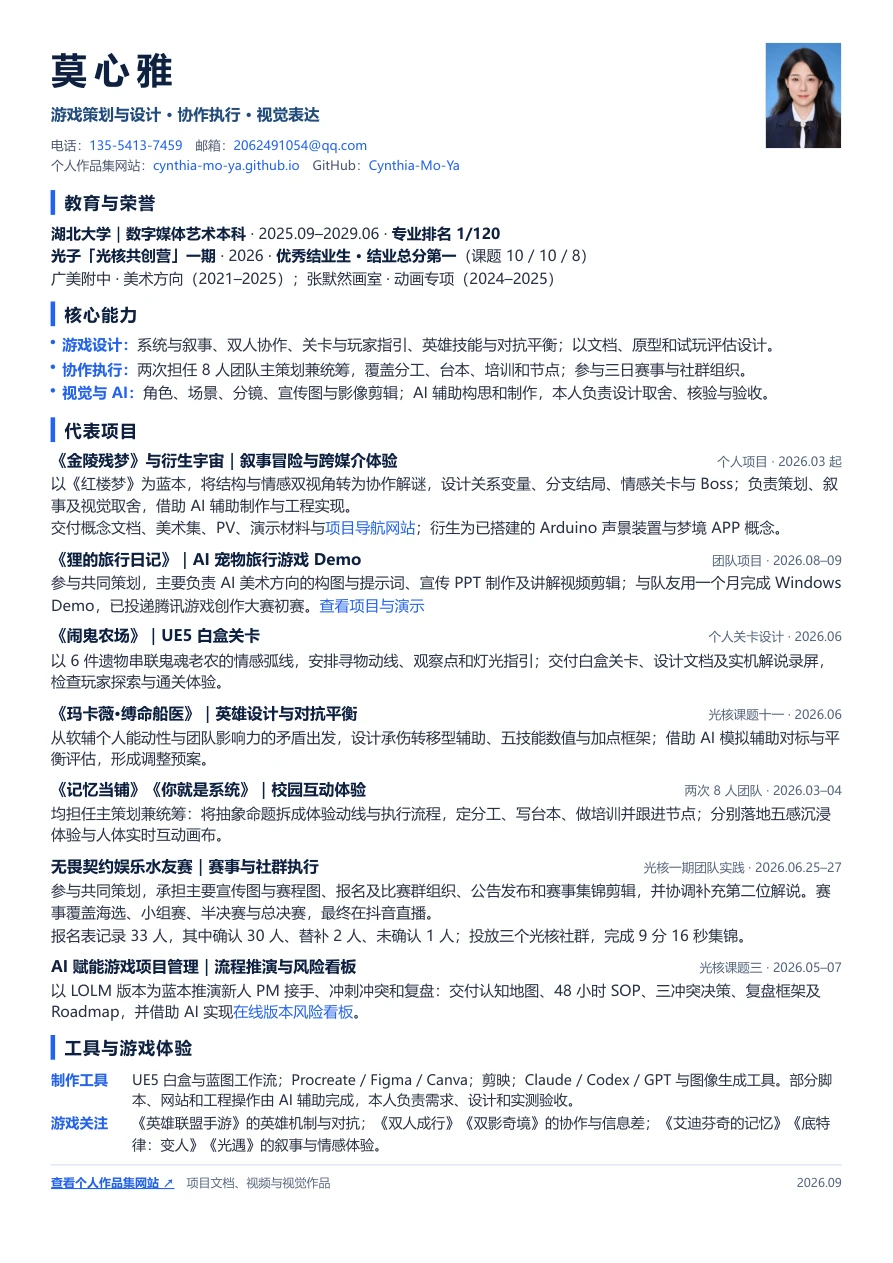
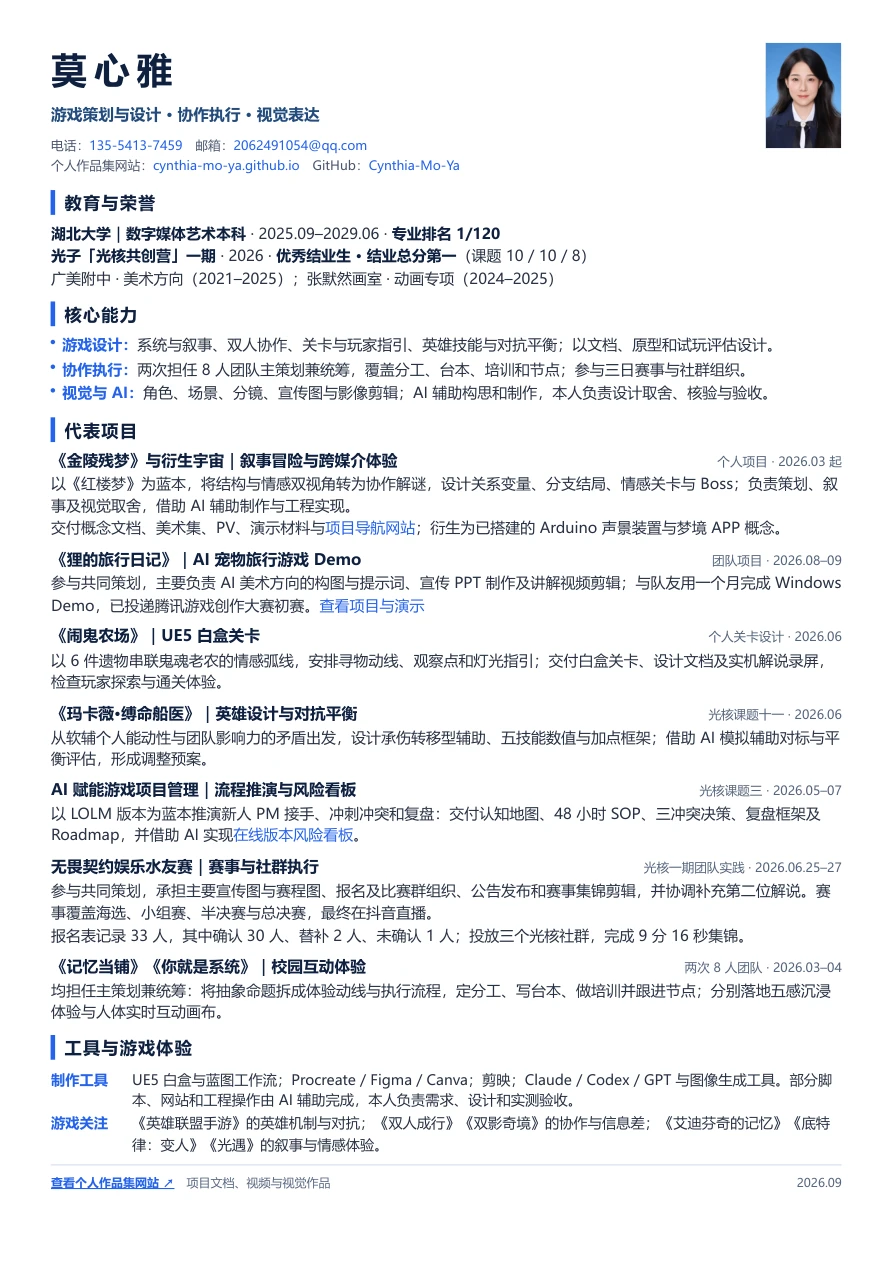
统一游戏项目优先顺序并同步综合简历

Changed region(s): [[0.0605, 0.7411, 0.9373, 0.8029], [0.0605, 0.6176, 0.9373, 0.6793]]

diff --git a/index.html b/index.html
@@ -160,8 +160,8 @@
           </div>
         </div>
         <div class="dossier-right">
-          <a class="dos-resume" href="assets/pdf/莫心雅_综合简历.pdf?v=9" target="_blank">
-            <img src="assets/img/resume-preview.webp?v=9" alt="莫心雅简历预览" loading="lazy">
+          <a class="dos-resume" href="assets/pdf/莫心雅_综合简历.pdf?v=10" target="_blank">
+            <img src="assets/img/resume-preview.webp?v=10" alt="莫心雅简历预览" loading="lazy">
             <span class="dos-resume-cta" data-i18n="file.read">阅读完整综合简历 ↗</span>
           </a>
           <div class="dos-build" tabindex="0">
@@ -338,33 +338,11 @@
       <span class="pc-frame"><img class="pc-cover" src="assets/img/covers/cover-lico.webp" alt="" loading="lazy"><span class="pc-num">PANEL 02</span></span>
       <span class="pc-face"><b data-i18n="cards.licot" class="pc-title">狸的旅行日记</b><small data-i18n="cards.licotag" class="pc-tags">团队游戏 Demo / AI 美术 · 共同策划 · 宣传</small></span>
     </button>
-    <button class="pcard pc-pawnshop" data-card="pawnshop">
-      <span class="pc-frame">
-        <span class="pc-ph" aria-hidden="true">🏷</span>
-        <img class="pc-cover" src="assets/img/covers/cover-pawnshop.webp?v=2" alt="" loading="lazy" onerror="this.closest('.pcard').classList.add('no-cover');this.remove()">
-        <span class="pc-num">PANEL 03</span>
-      </span>
-      <span class="pc-face">
-        <b class="pc-title" data-i18n="cards.c3t">记忆当铺</b>
-        <small class="pc-tags" data-i18n="cards.c3tag">五感沉浸体验 / 主策划兼统筹 / 全校路演</small>
-      </span>
-    </button>
-    <button class="pcard pc-system" data-card="system">
-      <span class="pc-frame">
-        <span class="pc-ph" aria-hidden="true">🎨</span>
-        <img class="pc-cover" src="assets/img/covers/cover-system.webp?v=2" alt="" loading="lazy" onerror="this.closest('.pcard').classList.add('no-cover');this.remove()">
-        <span class="pc-num">PANEL 04</span>
-      </span>
-      <span class="pc-face">
-        <b class="pc-title" data-i18n="cards.c4t">你就是系统</b>
-        <small class="pc-tags" data-i18n="cards.c4tag">人体互动画布 / 主策划兼统筹 / 零硬件</small>
-      </span>
-    </button>
     <button class="pcard pc-farm" data-card="farm">
       <span class="pc-frame">
         <span class="pc-ph" aria-hidden="true">👻</span>
         <img class="pc-cover" src="assets/img/covers/cover-farm.webp?v=2" alt="" loading="lazy" onerror="this.closest('.pcard').classList.add('no-cover');this.remove()">
-        <span class="pc-num">PANEL 05</span>
+        <span class="pc-num">PANEL 03</span>
       </span>
       <span class="pc-face">
         <b class="pc-title" data-i18n="cards.c5t">闹鬼农场</b>
@@ -375,7 +353,7 @@
       <span class="pc-frame">
         <span class="pc-ph" aria-hidden="true">🛡</span>
         <img class="pc-cover" src="assets/img/covers/cover-moba.webp?v=2" alt="" loading="lazy" onerror="this.closest('.pcard').classList.add('no-cover');this.remove()">
-        <span class="pc-num">PANEL 06</span>
+        <span class="pc-num">PANEL 04</span>
       </span>
       <span class="pc-face">
         <b class="pc-title" data-i18n="cards.c6t">玛卡薇 · 缚命船医</b>
@@ -386,7 +364,7 @@
       <span class="pc-frame">
         <span class="pc-ph" aria-hidden="true">📊</span>
         <img class="pc-cover" src="assets/img/covers/cover-aipm.webp?v=2" alt="" loading="lazy" onerror="this.closest('.pcard').classList.add('no-cover');this.remove()">
-        <span class="pc-num">PANEL 07</span>
+        <span class="pc-num">PANEL 05</span>
       </span>
       <span class="pc-face">
         <b class="pc-title" data-i18n="cards.c7t">AI 项目管理</b>
@@ -396,9 +374,31 @@
     <button class="pcard pc-event" data-card="valorant">
       <span class="pc-frame">
         <img class="pc-cover" src="assets/img/covers/cover-valorant.webp" alt="" loading="lazy">
-        <span class="pc-num">PANEL 08</span>
+        <span class="pc-num">PANEL 06</span>
       </span>
       <span class="pc-face"><b data-i18n="cards.c8t" class="pc-title">无畏契约水友赛</b><small data-i18n="cards.c8tag" class="pc-tags">赛事与活动 / 团队共创 / 宣传 · 社群 · 剪辑</small></span>
+    </button>
+    <button class="pcard pc-pawnshop" data-card="pawnshop">
+      <span class="pc-frame">
+        <span class="pc-ph" aria-hidden="true">🏷</span>
+        <img class="pc-cover" src="assets/img/covers/cover-pawnshop.webp?v=2" alt="" loading="lazy" onerror="this.closest('.pcard').classList.add('no-cover');this.remove()">
+        <span class="pc-num">PANEL 07</span>
+      </span>
+      <span class="pc-face">
+        <b class="pc-title" data-i18n="cards.c3t">记忆当铺</b>
+        <small class="pc-tags" data-i18n="cards.c3tag">五感沉浸体验 / 主策划兼统筹 / 全校路演</small>
+      </span>
+    </button>
+    <button class="pcard pc-system" data-card="system">
+      <span class="pc-frame">
+        <span class="pc-ph" aria-hidden="true">🎨</span>
+        <img class="pc-cover" src="assets/img/covers/cover-system.webp?v=2" alt="" loading="lazy" onerror="this.closest('.pcard').classList.add('no-cover');this.remove()">
+        <span class="pc-num">PANEL 08</span>
+      </span>
+      <span class="pc-face">
+        <b class="pc-title" data-i18n="cards.c4t">你就是系统</b>
+        <small class="pc-tags" data-i18n="cards.c4tag">人体互动画布 / 主策划兼统筹 / 零硬件</small>
+      </span>
     </button>
   </div>
   <div class="rail-tbc rail-tbc-footer" aria-hidden="true">
@@ -570,90 +570,11 @@
   </div>
 </section>
 
-<!-- ════════ ISSUE #03 记忆当铺 ════════ -->
-<section class="issue issue-light" id="pawnshop">
-  <span class="bigword bigword-light" aria-hidden="true">PAWNSHOP</span>
-  <div class="issue-head">
-    <span class="issue-num num-purple"><span data-i18n="ps.num">ISSUE #03 · 活动策划 · 统筹落地</span></span>
-    <h2 class="issue-title"><span class="glitch" data-text="记忆当铺" data-i18n="ps.title">记忆当铺</span><small>THE MEMORY PAWNSHOP</small></h2>
-    <p class="issue-meta" data-i18n="ps.meta">五感沉浸式体验 · 校园策划课路演 · 8 人小组 / 主策划兼统筹（分工 · 台本 · 培训 · 节点） · 2026.04</p>
-  </div>
-
-  <div class="two-col">
-    <div class="speech reveal">
-      <p class="speech-big" data-i18n="ps.quote">“用五感，典当你的记忆。”</p>
-      <p data-i18n="ps.desc">面向全校路演的沉浸式体验（「超级感官」命题）。把抽象情感转化为<b>可量化反馈</b>——按情感重量结算「典金」，配合逐步解锁的彩蛋机制；破解「去屏幕化」限制，用<b class="t-pink">听 / 嗅 / 触</b>三感搭建对应三段人生的感官舱。</p>
-      <ul class="flow-steps">
-        <li data-i18n="ps.f1">典当</li><li data-i18n="ps.f2">蒙眼入舱</li><li data-i18n="ps.f3">睁眼探索</li><li data-i18n="ps.f4">记忆长廊</li>
-      </ul>
-    </div>
-    <div class="video-panel reveal">
-      <div class="video-frame video-frame-purple">
-        <video controls preload="none" poster="assets/img/posters/pawnshop-vlog.jpg">
-          <source src="assets/video/pawnshop-vlog.mp4" type="video/mp4">
-        </video>
-      </div>
-      <span class="video-label" data-i18n="ps.vlog">▶ 活动 vlog · 现场实录</span>
-    </div>
-  </div>
-
-  <div class="collage reveal">
-    <figure class="collage-item r-1"><img src="assets/img/pawnshop/receipt-design.webp" alt="典当单收据设计" loading="lazy" data-zoom><figcaption data-i18n="ps.c1">典当单收据设计</figcaption></figure>
-    <figure class="collage-item r-2"><img src="assets/img/pawnshop/flowchart.webp" alt="活动流程图" loading="lazy" data-zoom><figcaption data-i18n="ps.c2">活动流程图</figcaption></figure>
-    <figure class="collage-item r-3"><img src="assets/img/pawnshop/script-1.webp" alt="引导员台本" loading="lazy" data-zoom><figcaption data-i18n="ps.c3">引导员台本（共三部分）</figcaption></figure>
-    <figure class="collage-item r-4"><img src="assets/img/pawnshop/purchase-list.webp" alt="采购清单与用途说明" loading="lazy" data-zoom><figcaption data-i18n="ps.c4">采购清单与统筹</figcaption></figure>
-  </div>
-
-  <h3 class="strip-title reveal"><span data-i18n="ps.s1">汇报 PPT</span> <small data-i18n="ps.s1s">13P · 独立完成</small></h3>
-  <div class="strip" data-gallery="pawnshop-ppt" data-count="13" data-h="170"></div>
-  <div class="btn-row reveal">
-    <a class="btn" href="assets/pdf/记忆当铺_汇报PPT.pdf" target="_blank" data-i18n="ps.b1">📑 下载汇报 PPT</a>
-  </div>
-</section>
-
-<!-- ════════ ISSUE #04 你就是系统 ════════ -->
-<section class="issue issue-dark" id="system">
-  <span class="bigword" aria-hidden="true">SYSTEM</span>
-  <div class="issue-head">
-    <span class="issue-num num-cyan"><span data-i18n="sy.num">ISSUE #04 · 活动策划 · 统筹落地</span></span>
-    <h2 class="issue-title"><span class="glitch" data-text="你就是系统" data-i18n="sy.title">你就是系统</span><small>HUMAN INTERACTIVE CANVAS</small></h2>
-    <p class="issue-meta" data-i18n="sy.meta">人体互动画布 · 数字艺术互动体验 · 8 人小组 / 主策划兼统筹（创意 · 管线 · 动线 · 培训） · 2026.03</p>
-  </div>
-
-  <div class="two-col">
-    <div class="speech speech-light reveal">
-      <p class="speech-big" data-i18n="sy.quote">“数字艺术 = 你的动作 + 系统的回应。”</p>
-      <p data-i18n="sy.desc">面向全班 29 人的互动体验，主题与核心创意均由本人构思。设计<b class="t-cyan">「人肉实时渲染」管线</b>：体验者做动作 → 侧面模仿者复现 → 背面绘画者实时成画，构建动作—反馈闭环。<b>零硬件落地</b>，划分体验 / 绘画区与动线，制作循环讲解视频并培训执行。</p>
-      <p class="pipeline"><span data-i18n="sy.p1">体验者</span>→<span data-i18n="sy.p2">模仿者</span>→<span data-i18n="sy.p3">绘画者</span>→<span class="pp-hot" data-i18n="sy.p4">实时成画</span></p>
-    </div>
-    <div class="video-panel reveal">
-      <div class="video-frame video-frame-cyan">
-        <video controls preload="none" poster="assets/img/posters/system-vlog.jpg">
-          <source src="assets/video/system-vlog.mp4" type="video/mp4">
-        </video>
-      </div>
-      <span class="video-label" data-i18n="sy.vlog">▶ 活动 vlog</span>
-      <span class="burst burst-pink">哇!</span>
-    </div>
-  </div>
-
-  <div class="sys-media reveal">
-    <figure class="panel panel-dark"><img src="assets/img/system/system-poster.webp" alt="宣传物料" loading="lazy" data-zoom><figcaption data-i18n="sy.m1">宣传物料</figcaption></figure>
-    <figure class="panel panel-dark"><img src="assets/img/system/linjiechang-analysis.webp" alt="《临界场》看展记录与分析" loading="lazy" data-zoom><figcaption data-i18n="sy.m2">前期独立产出：《临界场》空间叙事拆解</figcaption></figure>
-    <div class="sys-strip">
-      <h3 class="strip-title"><span data-i18n="sy.s1">宣讲 PPT</span> <small>7P</small></h3>
-      <div class="strip strip-mini" data-gallery="system-ppt" data-count="7" data-h="150"></div>
-      <a class="btn btn-sm" href="assets/pdf/你就是系统_宣讲PPT.pdf" target="_blank" data-i18n="sy.b1">📑 下载宣讲 PPT</a>
-    </div>
-  </div>
-</section>
-
-
-<!-- ════════ ISSUE #05 闹鬼农场（关卡设计） ════════ -->
+<!-- ════════ ISSUE #03 闹鬼农场（关卡设计） ════════ -->
 <section class="issue issue-black" id="farm">
   <span class="bigword" aria-hidden="true">FARM</span>
   <div class="issue-head">
-    <span class="issue-num num-cyan"><span data-i18n="fm.num">ISSUE #05 · 关卡设计</span></span>
+    <span class="issue-num num-cyan"><span data-i18n="fm.num">ISSUE #03 · 关卡设计</span></span>
     <h2 class="issue-title"><span class="glitch" data-text="闹鬼农场" data-i18n="fm.title">闹鬼农场</span><small>HAUNTED FARM · UE5 WHITE-BOX</small></h2>
     <p class="issue-meta" data-i18n="fm.meta">个人独立完成 · 关卡设计 / UE5.8 白盒 · 寻物解谜 + 轻战斗</p>
   </div>
@@ -689,11 +610,11 @@
   </div>
 </section>
 
-<!-- ════════ ISSUE #06 玛卡薇（系统 / 英雄设计） ════════ -->
+<!-- ════════ ISSUE #04 玛卡薇（系统 / 英雄设计） ════════ -->
 <section class="issue issue-light" id="moba">
   <span class="bigword bigword-light" aria-hidden="true">MAKAVI</span>
   <div class="issue-head">
-    <span class="issue-num num-pink"><span data-i18n="mb.num">ISSUE #06 · 英雄设计</span></span>
+    <span class="issue-num num-pink"><span data-i18n="mb.num">ISSUE #04 · 英雄设计</span></span>
     <h2 class="issue-title"><span class="glitch" data-text="玛卡薇 · 缚命船医" data-i18n="mb.title">玛卡薇 · 缚命船医</span><small>MAKAVI · CHAMPION &amp; COUNTERPLAY DESIGN</small></h2>
     <p class="issue-meta" data-i18n="mb.meta">光核共创营课题十一 · 个人独立完成 · 英雄设计 / 数值与对抗平衡 · LOLM 7.1g · 2026</p>
   </div>
@@ -719,11 +640,11 @@
   </div>
 </section>
 
-<!-- ════════ ISSUE #07 AI 赋能游戏项目管理 ════════ -->
+<!-- ════════ ISSUE #05 AI 赋能游戏项目管理 ════════ -->
 <section class="issue issue-dark" id="aipm">
   <span class="bigword" aria-hidden="true">PROJECT</span>
   <div class="issue-head">
-    <span class="issue-num num-purple"><span data-i18n="pm.num">ISSUE #07 · 项目管理</span></span>
+    <span class="issue-num num-purple"><span data-i18n="pm.num">ISSUE #05 · 项目管理</span></span>
     <h2 class="issue-title"><span class="glitch" data-text="AI 赋能游戏项目管理" data-i18n="pm.title">AI 赋能游戏项目管理</span><small>AI-EMPOWERED GAME PROJECT MANAGEMENT</small></h2>
     <p class="issue-meta" data-i18n="pm.meta">光核共创营课题三 · 游戏项目管理 / 新人 PM 全链路推演 · 蓝本：英雄联盟手游 7.1「全速竞逐」</p>
   </div>
@@ -757,12 +678,12 @@
   </div>
 </section>
 
-<!-- ════════ ISSUE #08 赛事与活动 ════════ -->
+<!-- ════════ ISSUE #06 赛事与活动 ════════ -->
 <section class="issue issue-dark" id="events">
   <span class="bigword" aria-hidden="true">PLAY!</span>
   <div class="ev-content">
     <div class="issue-head">
-      <span class="issue-num num-cyan"><span data-i18n="ev.num">ISSUE #08 · 赛事与活动</span></span>
+      <span class="issue-num num-cyan"><span data-i18n="ev.num">ISSUE #06 · 赛事与活动</span></span>
       <h2 class="issue-title"><span data-i18n="ev.title" class="glitch" data-text="无畏契约娱乐水友赛">无畏契约娱乐水友赛</span><small>VALORANT COMMUNITY CUP</small></h2>
       <p data-i18n="ev.meta" class="issue-meta">光核共创营第一期小组实践 · 2026.06.25—06.27 · 抖音直播</p>
     </div>
@@ -876,6 +797,84 @@
   </div>
 </section>
 
+<!-- ════════ ISSUE #07 记忆当铺 ════════ -->
+<section class="issue issue-light" id="pawnshop">
+  <span class="bigword bigword-light" aria-hidden="true">PAWNSHOP</span>
+  <div class="issue-head">
+    <span class="issue-num num-purple"><span data-i18n="ps.num">ISSUE #07 · 活动策划 · 统筹落地</span></span>
+    <h2 class="issue-title"><span class="glitch" data-text="记忆当铺" data-i18n="ps.title">记忆当铺</span><small>THE MEMORY PAWNSHOP</small></h2>
+    <p class="issue-meta" data-i18n="ps.meta">五感沉浸式体验 · 校园策划课路演 · 8 人小组 / 主策划兼统筹（分工 · 台本 · 培训 · 节点） · 2026.04</p>
+  </div>
+
+  <div class="two-col">
+    <div class="speech reveal">
+      <p class="speech-big" data-i18n="ps.quote">“用五感，典当你的记忆。”</p>
+      <p data-i18n="ps.desc">面向全校路演的沉浸式体验（「超级感官」命题）。把抽象情感转化为<b>可量化反馈</b>——按情感重量结算「典金」，配合逐步解锁的彩蛋机制；破解「去屏幕化」限制，用<b class="t-pink">听 / 嗅 / 触</b>三感搭建对应三段人生的感官舱。</p>
+      <ul class="flow-steps">
+        <li data-i18n="ps.f1">典当</li><li data-i18n="ps.f2">蒙眼入舱</li><li data-i18n="ps.f3">睁眼探索</li><li data-i18n="ps.f4">记忆长廊</li>
+      </ul>
+    </div>
+    <div class="video-panel reveal">
+      <div class="video-frame video-frame-purple">
+        <video controls preload="none" poster="assets/img/posters/pawnshop-vlog.jpg">
+          <source src="assets/video/pawnshop-vlog.mp4" type="video/mp4">
+        </video>
+      </div>
+      <span class="video-label" data-i18n="ps.vlog">▶ 活动 vlog · 现场实录</span>
+    </div>
+  </div>
+
+  <div class="collage reveal">
+    <figure class="collage-item r-1"><img src="assets/img/pawnshop/receipt-design.webp" alt="典当单收据设计" loading="lazy" data-zoom><figcaption data-i18n="ps.c1">典当单收据设计</figcaption></figure>
+    <figure class="collage-item r-2"><img src="assets/img/pawnshop/flowchart.webp" alt="活动流程图" loading="lazy" data-zoom><figcaption data-i18n="ps.c2">活动流程图</figcaption></figure>
+    <figure class="collage-item r-3"><img src="assets/img/pawnshop/script-1.webp" alt="引导员台本" loading="lazy" data-zoom><figcaption data-i18n="ps.c3">引导员台本（共三部分）</figcaption></figure>
+    <figure class="collage-item r-4"><img src="assets/img/pawnshop/purchase-list.webp" alt="采购清单与用途说明" loading="lazy" data-zoom><figcaption data-i18n="ps.c4">采购清单与统筹</figcaption></figure>
+  </div>
+
+  <h3 class="strip-title reveal"><span data-i18n="ps.s1">汇报 PPT</span> <small data-i18n="ps.s1s">13P · 独立完成</small></h3>
+  <div class="strip" data-gallery="pawnshop-ppt" data-count="13" data-h="170"></div>
+  <div class="btn-row reveal">
+    <a class="btn" href="assets/pdf/记忆当铺_汇报PPT.pdf" target="_blank" data-i18n="ps.b1">📑 下载汇报 PPT</a>
+  </div>
+</section>
+
+<!-- ════════ ISSUE #08 你就是系统 ════════ -->
+<section class="issue issue-dark" id="system">
+  <span class="bigword" aria-hidden="true">SYSTEM</span>
+  <div class="issue-head">
+    <span class="issue-num num-cyan"><span data-i18n="sy.num">ISSUE #08 · 活动策划 · 统筹落地</span></span>
+    <h2 class="issue-title"><span class="glitch" data-text="你就是系统" data-i18n="sy.title">你就是系统</span><small>HUMAN INTERACTIVE CANVAS</small></h2>
+    <p class="issue-meta" data-i18n="sy.meta">人体互动画布 · 数字艺术互动体验 · 8 人小组 / 主策划兼统筹（创意 · 管线 · 动线 · 培训） · 2026.03</p>
+  </div>
+
+  <div class="two-col">
+    <div class="speech speech-light reveal">
+      <p class="speech-big" data-i18n="sy.quote">“数字艺术 = 你的动作 + 系统的回应。”</p>
+      <p data-i18n="sy.desc">面向全班 29 人的互动体验，主题与核心创意均由本人构思。设计<b class="t-cyan">「人肉实时渲染」管线</b>：体验者做动作 → 侧面模仿者复现 → 背面绘画者实时成画，构建动作—反馈闭环。<b>零硬件落地</b>，划分体验 / 绘画区与动线，制作循环讲解视频并培训执行。</p>
+      <p class="pipeline"><span data-i18n="sy.p1">体验者</span>→<span data-i18n="sy.p2">模仿者</span>→<span data-i18n="sy.p3">绘画者</span>→<span class="pp-hot" data-i18n="sy.p4">实时成画</span></p>
+    </div>
+    <div class="video-panel reveal">
+      <div class="video-frame video-frame-cyan">
+        <video controls preload="none" poster="assets/img/posters/system-vlog.jpg">
+          <source src="assets/video/system-vlog.mp4" type="video/mp4">
+        </video>
+      </div>
+      <span class="video-label" data-i18n="sy.vlog">▶ 活动 vlog</span>
+      <span class="burst burst-pink">哇!</span>
+    </div>
+  </div>
+
+  <div class="sys-media reveal">
+    <figure class="panel panel-dark"><img src="assets/img/system/system-poster.webp" alt="宣传物料" loading="lazy" data-zoom><figcaption data-i18n="sy.m1">宣传物料</figcaption></figure>
+    <figure class="panel panel-dark"><img src="assets/img/system/linjiechang-analysis.webp" alt="《临界场》看展记录与分析" loading="lazy" data-zoom><figcaption data-i18n="sy.m2">前期独立产出：《临界场》空间叙事拆解</figcaption></figure>
+    <div class="sys-strip">
+      <h3 class="strip-title"><span data-i18n="sy.s1">宣讲 PPT</span> <small>7P</small></h3>
+      <div class="strip strip-mini" data-gallery="system-ppt" data-count="7" data-h="150"></div>
+      <a class="btn btn-sm" href="assets/pdf/你就是系统_宣讲PPT.pdf" target="_blank" data-i18n="sy.b1">📑 下载宣讲 PPT</a>
+    </div>
+  </div>
+</section>
+
 <!-- ════════ SKILLS ════════ -->
 <section class="issue issue-dark" id="skills">
   <span class="bigword" aria-hidden="true">GEAR</span>
@@ -972,8 +971,8 @@
 
 <script src="https://cdn.jsdelivr.net/npm/gsap@3.12.5/dist/gsap.min.js"></script>
 <script src="https://cdn.jsdelivr.net/npm/gsap@3.12.5/dist/ScrollTrigger.min.js"></script>
-<script src="assets/js/i18n.js?v=41"></script>
+<script src="assets/js/i18n.js?v=42"></script>
 <script src="assets/js/main.js?v=14"></script>
-<script src="assets/js/features.js?v=29"></script>
+<script src="assets/js/features.js?v=30"></script>
 </body>
 </html>

diff --git a/assets/js/i18n.js b/assets/js/i18n.js
@@ -199,8 +199,8 @@
     'cards.tbcs': { zh: '下一话 · 更多作品正在赶来', en: 'Next issue · more works on the way' },
 
     'jl.num': { zh: 'ISSUE #01 · 游戏概念设计', en: 'ISSUE #01 · GAME CONCEPT' },
-    'ps.num': { zh: 'ISSUE #03 · 活动策划 · 统筹落地', en: 'ISSUE #03 · EXPERIENCE DESIGN & COORDINATION' },
-    'sy.num': { zh: 'ISSUE #04 · 活动策划 · 统筹落地', en: 'ISSUE #04 · EXPERIENCE DESIGN & COORDINATION' },
+    'ps.num': { zh: 'ISSUE #07 · 活动策划 · 统筹落地', en: 'ISSUE #07 · EXPERIENCE DESIGN & COORDINATION' },
+    'sy.num': { zh: 'ISSUE #08 · 活动策划 · 统筹落地', en: 'ISSUE #08 · EXPERIENCE DESIGN & COORDINATION' },
     'jl.title': { zh: '金陵残梦', en: 'JINLING DREAM' },
     'jl.meta': { zh: '个人独立完成 · 策划 / 叙事 / 关卡 / 美术 / AI 工作流 · 2026.03 – 至今', en: 'Solo project · design / narrative / levels / art / AI workflow · 2026.03 – present' },
     'jl.quote': { zh: '“共入金陵旧梦，<br>各得一双眼睛。”', en: '"Enter the old dream of Jinling together —<br>each receives a different pair of eyes."' },
@@ -255,7 +255,7 @@
     'sy.s1': { zh: '宣讲 PPT', en: 'Pitch Deck' },
     'sy.b1': { zh: '📑 下载宣讲 PPT', en: '📑 Download the deck' },
 
-    'fm.num': { zh: 'ISSUE #05 · 关卡设计', en: 'ISSUE #05 · LEVEL DESIGN' },
+    'fm.num': { zh: 'ISSUE #03 · 关卡设计', en: 'ISSUE #03 · LEVEL DESIGN' },
     'fm.title': { zh: '闹鬼农场', en: 'HAUNTED FARM' },
     'fm.meta': { zh: '个人独立完成 · 关卡设计 / UE5.8 白盒 · 寻物解谜 + 轻战斗', en: 'Solo · Level design / UE5.8 white-box · puzzle-explore + light combat' },
     'fm.quote': { zh: '“让老莫安息，<br>让农场重新活过来。”', en: '"Let Old Mo rest —<br>let the farm come alive again."' },
@@ -273,7 +273,7 @@
     'fm.s1s': { zh: 'LEVEL DESIGN DOC · 9P · 点击放大', en: 'LEVEL DESIGN DOC · 9 PAGES · CLICK TO ZOOM' },
     'fm.b1': { zh: '📄 完整关卡设计文档', en: '📄 Full level design doc' },
 
-    'mb.num': { zh: 'ISSUE #06 · 英雄设计', en: 'ISSUE #06 · CHAMPION DESIGN' },
+    'mb.num': { zh: 'ISSUE #04 · 英雄设计', en: 'ISSUE #04 · CHAMPION DESIGN' },
     'mb.title': { zh: '玛卡薇 · 缚命船医', en: 'MAKAVI' },
     'mb.meta': { zh: '光核共创营课题十一 · 个人独立完成 · 英雄设计 / 数值与对抗平衡 · LOLM 7.1g · 2026', en: 'Co-creation camp brief #11 · solo · champion design / systems & counterplay balance · LOLM 7.1g · 2026' },
     'mb.quote': { zh: '“你死不了——<br>今天，我替你扛。”', en: '"You won\'t die —<br>today, I take the hit for you."' },
@@ -290,7 +290,7 @@
     'mb.s1s': { zh: 'CHAMPION DESIGN · 25P · 拆解 → 原创 → 平衡评估', en: 'CHAMPION DESIGN · 25 PAGES · teardown → design → balance' },
     'mb.b1': { zh: '📄 完整英雄设计文档', en: '📄 Full champion design doc' },
 
-    'pm.num': { zh: 'ISSUE #07 · 项目管理', en: 'ISSUE #07 · PROJECT MGMT' },
+    'pm.num': { zh: 'ISSUE #05 · 项目管理', en: 'ISSUE #05 · PROJECT MGMT' },
     'pm.title': { zh: 'AI 赋能游戏项目管理', en: 'AI-EMPOWERED GAME PM' },
     'pm.meta': { zh: '光核共创营课题三 · 游戏项目管理 / 新人 PM 全链路推演 · 蓝本：英雄联盟手游 7.1「全速竞逐」', en: 'Co-creation camp brief #3 · Game project management / new-PM full-lifecycle playbook · Blueprint: LOL Mobile 7.1' },
     'pm.quote': { zh: '“AI 做杠杆，<br>不做拐杖。”', en: '"AI as leverage,<br>not a crutch."' },
@@ -314,7 +314,7 @@
     "nav.artCollection": {"zh": "美术作品集", "en": "Art Collection"},
     "cards.c8t": {"zh": "无畏契约水友赛", "en": "VALORANT Community Cup"},
     "cards.c8tag": {"zh": "赛事与活动 / 团队共创 / 宣传 · 社群 · 剪辑", "en": "Live event / Team project / Visuals · Community · Editing"},
-    "ev.num": {"zh": "ISSUE #08 · 赛事与活动", "en": "ISSUE #08 · EVENTS"},
+    "ev.num": {"zh": "ISSUE #06 · 赛事与活动", "en": "ISSUE #06 · EVENTS"},
     "ev.title": {"zh": "无畏契约娱乐水友赛", "en": "VALORANT Community Cup"},
     "ev.meta": {"zh": "光核共创营第一期小组实践 · 2026.06.25—06.27 · 抖音直播", "en": "A team project at Guanghe Co-creation Camp, Cohort 1 · June 25–27, 2026 · Livestreamed on Douyin"},
     "ev.quote": {"zh": "无畏集结，欢乐对决。", "en": "Play together. Make it an event."},

diff --git a/assets/js/features.js b/assets/js/features.js
@@ -83,8 +83,8 @@
       zh: 'PM 方向的代表作是「AI 赋能游戏项目管理」（光核共创营课题三）：以 LOLM 7.1 为蓝本推演新人 PM 全链路——认知地图、48h 上手 SOP、冲刺期三冲突决策、复盘框架与三个月 Roadmap，还有一块已上线的「版本风险与进度看板」。她以结业总分第一从光核共创营一期毕业（三份课题 10/10/8），再加上两次带 8 人团队主策划兼统筹的落地经验，她相信 PM 最关键的是让信息透明、让节奏可控。',
       en: 'Her flagship PM work: "AI-Empowered Game PM" (co-creation camp brief #3) — a new-PM full-lifecycle playbook on LOL Mobile 7.1 (cognition map, 48h onboarding SOP, sprint conflict decisions, retro framework, three-month roadmap) plus a live version-risk dashboard. She graduated from LIGHTSPEED STUDIOS\' co-creation camp S1 with the No.1 overall score (briefs 10/10/8). Add twice leading an 8-person team as lead & coordinator, and her core belief: a PM\'s job is keeping information transparent and the rhythm under control.' },
     { k: /项目|做过|作品|经历|\bprojects?\b|\bworks?\b|portfolio/i,
-      zh: "心雅的作品集现在有九项作品：《金陵残梦》、衍生宇宙、《狸的旅行日记》、《记忆当铺》、《你就是系统》、《闹鬼农场》、《玛卡薇·缚命船医》、AI 赋能游戏项目管理，无畏契约娱乐水友赛。它们覆盖游戏设计、团队协作、赛事活动与视觉表达；卡墙和各项目章节都有对应材料。",
-      en: "Her portfolio now has nine projects: Remnant Dream of Jinling, the Jinling spin-off universe, Lico’s Travel Diary, The Memory Pawnshop, You Are The System, Haunted Farm, Makavi, AI-Empowered Game PM, and the VALORANT Community Cup. Together they cover game design, teamwork, events and visual expression. Each has a project card and supporting materials." },
+      zh: "心雅的作品集现在有九项作品：《金陵残梦》、衍生宇宙、《狸的旅行日记》、《闹鬼农场》、《玛卡薇·缚命船医》、AI 赋能游戏项目管理、无畏契约娱乐水友赛、《记忆当铺》、《你就是系统》。它们覆盖游戏设计、团队协作、赛事活动与视觉表达；卡墙和各项目章节都有对应材料。",
+      en: "Her portfolio now has nine projects: Remnant Dream of Jinling, the Jinling spin-off universe, Lico’s Travel Diary, Haunted Farm, Makavi, AI-Empowered Game PM, the VALORANT Community Cup, The Memory Pawnshop, and You Are The System. Together they cover game design, teamwork, events and visual expression. Each has a project card and supporting materials." },
     { k: /红楼|文学|\bip\b|改编|为什么/i,
       zh: '为什么是《红楼梦》？因为它本身就是一场「双视角的梦」——世人看见繁华，黛玉看见将散的宴席。心雅把这种「同一世界、两套真相」转译成双人分屏机制：石青看见结构，温遇看见情感，缺一不可。文学不是皮，是机制的源头。',
       en: 'Why Dream of the Red Chamber? Because the novel itself is a dream with two readings — the world sees splendor, Daiyu sees the feast about to scatter. Cynthia translates that into split-screen mechanics: one player reads structure, the other reads emotion, and neither view alone can finish the game. Literature is not a skin here — it is where the mechanics come from.' },
